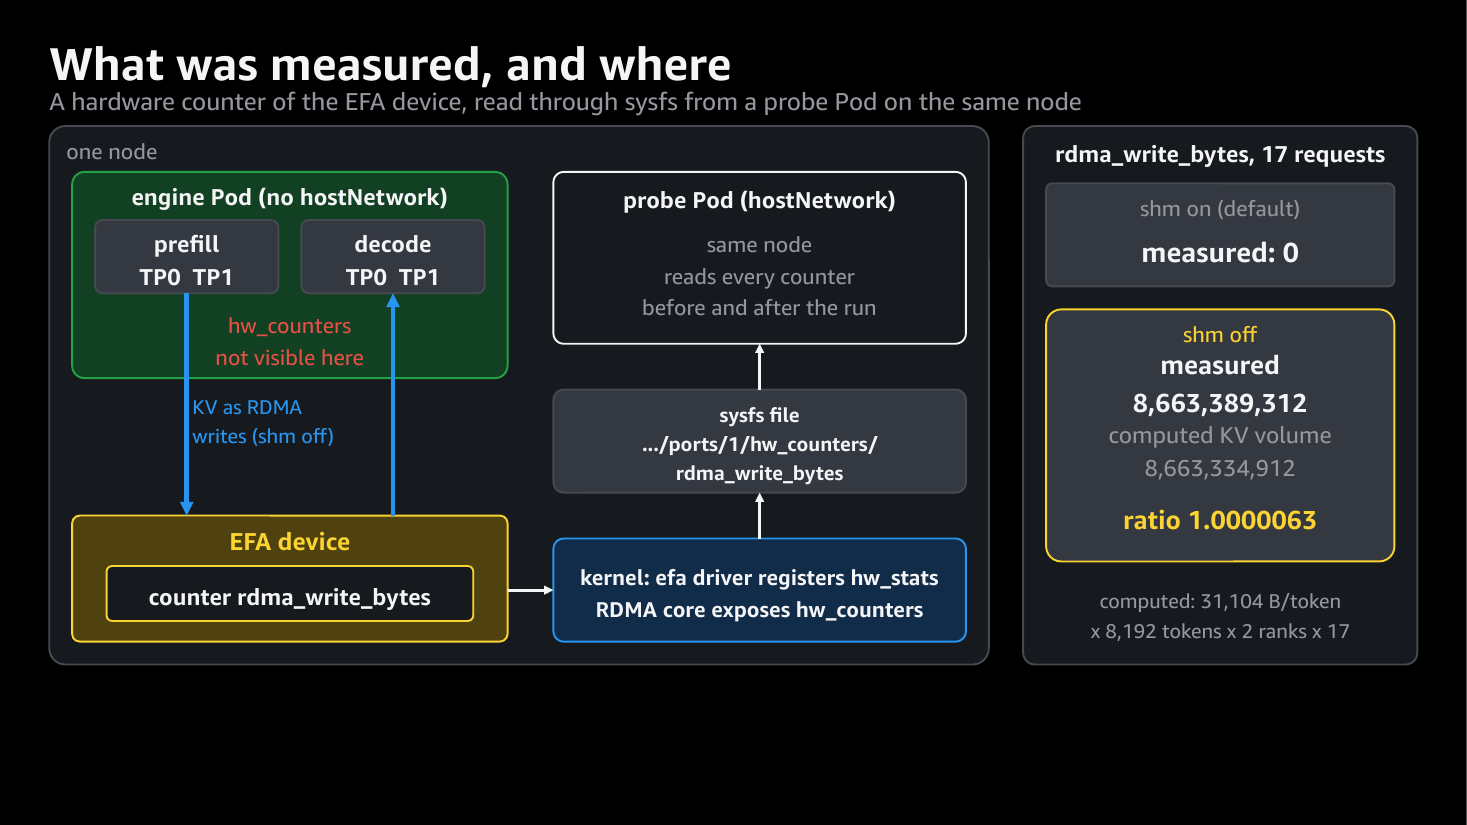
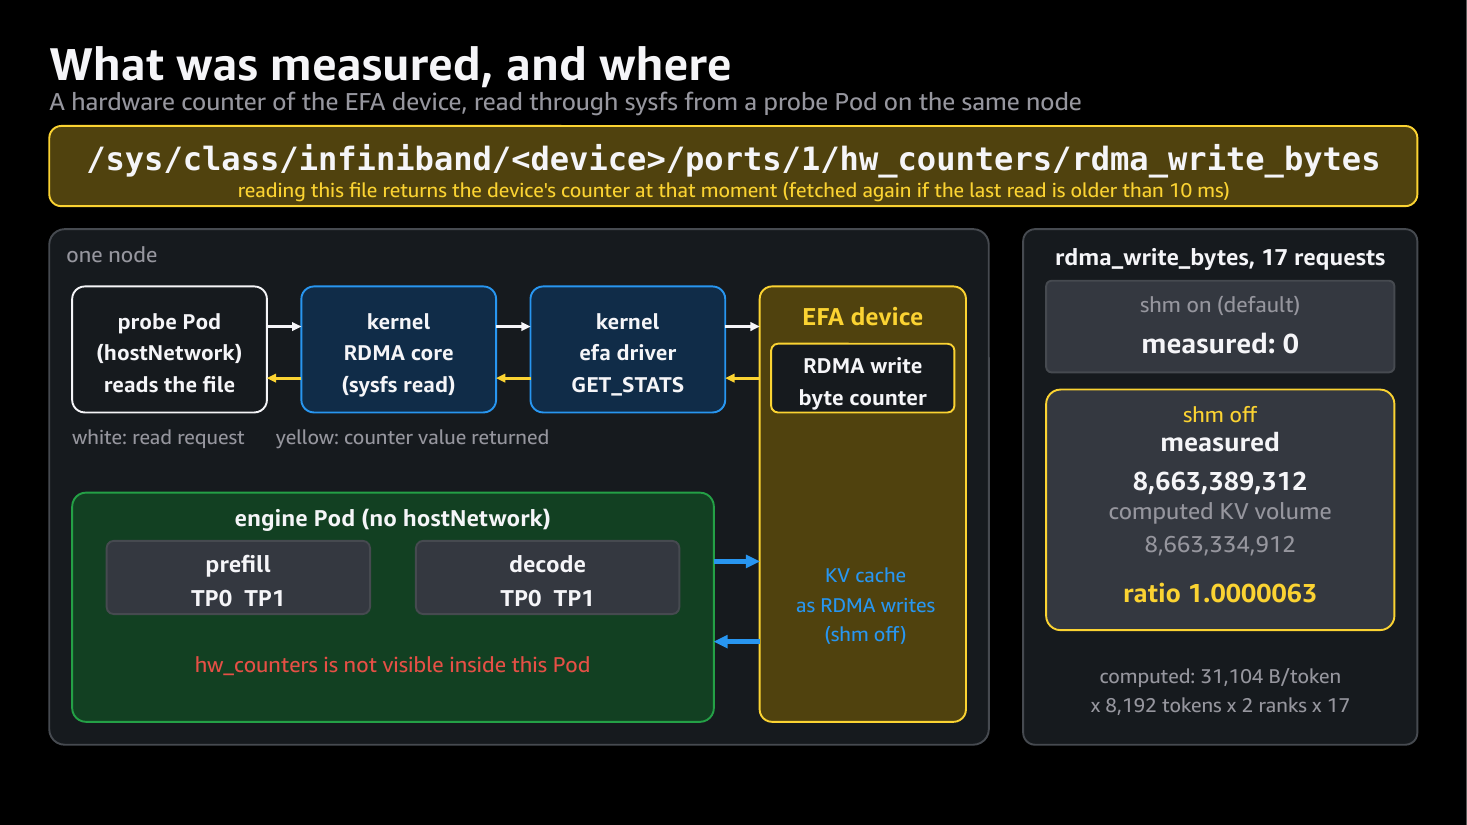
zenn/741e79cf2e9bf2: show the sysfs path and how reading it fetches the EFA counter

diff --git a/zenn/articles/741e79cf2e9bf2/source/gen_figs.py b/zenn/articles/741e79cf2e9bf2/source/gen_figs.py
@@ -314,38 +314,43 @@ label(s, 63, 390, 1154, 60, "repeated until the whole message is across\n(2 copi
 # 14. what the EFA counter measures, and where it was read
 s = d.slide().s
 title(s, "What was measured, and where", "A hardware counter of the EFA device, read through sysfs from a probe Pod on the same node")
-box(s, 43, 110, 820, 470, CHIP, stroke=EDGE, radius=0.03)
-label(s, 58, 116, 400, 26, "one node", size=14, color=MUTED, align="left")
-box(s, 63, 150, 380, 180, GRN_DK, stroke=GRN, radius=0.06)
-label(s, 73, 156, 360, 26, "engine Pod (no hostNetwork)", size=15, bold=True)
-box(s, 83, 192, 160, 64, GREY, stroke=EDGE, body="prefill\nTP0  TP1", size=15)
-box(s, 263, 192, 160, 64, GREY, stroke=EDGE, body="decode\nTP0  TP1", size=15)
-label(s, 73, 272, 360, 46, "hw_counters\nnot visible here", size=14, color=RED)
-box(s, 63, 450, 380, 110, YEL_DK, stroke=YEL, radius=0.06)
-label(s, 73, 456, 360, 26, "EFA device", size=16, bold=True, color=YEL)
-box(s, 93, 494, 320, 48, CHIP, stroke=YEL, body="counter rdma_write_bytes", size=15)
-arrow(s, 163, 256, 163, 450, LINK, 3)
-arrow(s, 343, 450, 343, 256, LINK, 3)
-label(s, 168, 340, 170, 50, "KV as RDMA\nwrites (shm off)", size=13, color=LINK, align="left")
-box(s, 483, 470, 360, 90, LINK_DK, stroke=LINK, body="kernel: efa driver registers hw_stats\nRDMA core exposes hw_counters", size=14)
-arrow(s, 443, 515, 483, 515, WHITE, 2)
-box(s, 483, 340, 360, 90, GREY, stroke=EDGE, body="sysfs file\n.../ports/1/hw_counters/rdma_write_bytes", size=13)
-arrow(s, 663, 470, 663, 430, WHITE, 2)
-box(s, 483, 150, 360, 150, CHIP, stroke=WHITE, radius=0.06)
-label(s, 493, 158, 340, 26, "probe Pod (hostNetwork)", size=15, bold=True)
-label(s, 493, 192, 340, 92, "same node\nreads every counter\nbefore and after the run", size=14, color=MUTED)
-arrow(s, 663, 340, 663, 300, WHITE, 2)
-box(s, 893, 110, 344, 470, CHIP, stroke=EDGE, radius=0.03)
-label(s, 903, 118, 324, 26, "rdma_write_bytes, 17 requests", size=15, bold=True)
-box(s, 913, 160, 304, 90, GREY, stroke=EDGE, radius=0.06)
-label(s, 923, 166, 284, 26, "shm on (default)", size=14, color=MUTED)
-label(s, 923, 196, 284, 40, "measured: 0", size=18, bold=True)
-box(s, 913, 270, 304, 220, GREY, stroke=YEL, radius=0.06)
-label(s, 923, 276, 284, 26, "shm off", size=14, color=YEL)
-label(s, 923, 306, 284, 50, "measured\n8,663,389,312", size=17, bold=True)
-label(s, 923, 366, 284, 50, "computed KV volume\n8,663,334,912", size=15, color=MUTED)
-label(s, 923, 430, 284, 40, "ratio 1.0000063", size=17, bold=True, color=YEL)
-label(s, 903, 500, 324, 70, "computed: 31,104 B/token\nx 8,192 tokens x 2 ranks x 17", size=13, color=MUTED)
+box(s, 43, 110, 1194, 70, YEL_DK, stroke=YEL, radius=0.15)
+sh.textbox(s, t, 63, 118, 1154, 32, "/sys/class/infiniband/<device>/ports/1/hw_counters/rdma_write_bytes",
+           size=21, color=WHITE, bold=True, align="center", anchor="middle", mono=True)
+label(s, 63, 150, 1154, 26, "reading this file returns the device's counter at that moment (fetched again if the last read is older than 10 ms)", size=13, color=YEL)
+box(s, 43, 200, 820, 450, CHIP, stroke=EDGE, radius=0.03)
+label(s, 58, 206, 400, 26, "one node", size=14, color=MUTED, align="left")
+chain = [(63, "probe Pod\n(hostNetwork)\nreads the file", CHIP, WHITE),
+         (263, "kernel\nRDMA core\n(sysfs read)", LINK_DK, LINK),
+         (463, "kernel\nefa driver\nGET_STATS", LINK_DK, LINK)]
+for x, body, fill, stroke in chain:
+    box(s, x, 250, 170, 110, fill, stroke=stroke, body=body, size=14)
+box(s, 663, 250, 180, 380, YEL_DK, stroke=YEL, radius=0.06)
+label(s, 673, 258, 160, 30, "EFA device", size=16, bold=True, color=YEL)
+box(s, 673, 300, 160, 60, CHIP, stroke=YEL, body="RDMA write\nbyte counter", size=14)
+for x in (233, 433, 633):
+    arrow(s, x, 285, x + 30, 285, WHITE, 2)
+    arrow(s, x + 30, 330, x, 330, YEL, 2)
+label(s, 63, 366, 600, 26, "white: read request      yellow: counter value returned", size=13, color=MUTED, align="left")
+box(s, 63, 430, 560, 200, GRN_DK, stroke=GRN, radius=0.06)
+label(s, 73, 436, 540, 26, "engine Pod (no hostNetwork)", size=15, bold=True)
+box(s, 93, 472, 230, 64, GREY, stroke=EDGE, body="prefill\nTP0  TP1", size=15)
+box(s, 363, 472, 230, 64, GREY, stroke=EDGE, body="decode\nTP0  TP1", size=15)
+label(s, 73, 552, 540, 50, "hw_counters is not visible inside this Pod", size=14, color=RED)
+arrow(s, 623, 490, 663, 490, LINK, 3)
+arrow(s, 663, 560, 623, 560, LINK, 3)
+label(s, 673, 470, 165, 110, "KV cache\nas RDMA writes\n(shm off)", size=13, color=LINK)
+box(s, 893, 200, 344, 450, CHIP, stroke=EDGE, radius=0.03)
+label(s, 903, 208, 324, 26, "rdma_write_bytes, 17 requests", size=15, bold=True)
+box(s, 913, 245, 304, 80, GREY, stroke=EDGE, radius=0.06)
+label(s, 923, 250, 284, 26, "shm on (default)", size=14, color=MUTED)
+label(s, 923, 278, 284, 36, "measured: 0", size=18, bold=True)
+box(s, 913, 340, 304, 210, GREY, stroke=YEL, radius=0.06)
+label(s, 923, 346, 284, 26, "shm off", size=14, color=YEL)
+label(s, 923, 374, 284, 50, "measured\n8,663,389,312", size=17, bold=True)
+label(s, 923, 432, 284, 50, "computed KV volume\n8,663,334,912", size=15, color=MUTED)
+label(s, 923, 494, 284, 40, "ratio 1.0000063", size=17, bold=True, color=YEL)
+label(s, 903, 565, 324, 70, "computed: 31,104 B/token\nx 8,192 tokens x 2 ranks x 17", size=13, color=MUTED)
 
 d.save(OUT)
 sys.path.insert(0, "/Users/akazawt/works/data-science/claudecode/.claude/skills/review-html/packs/zenn-doc/templates")
